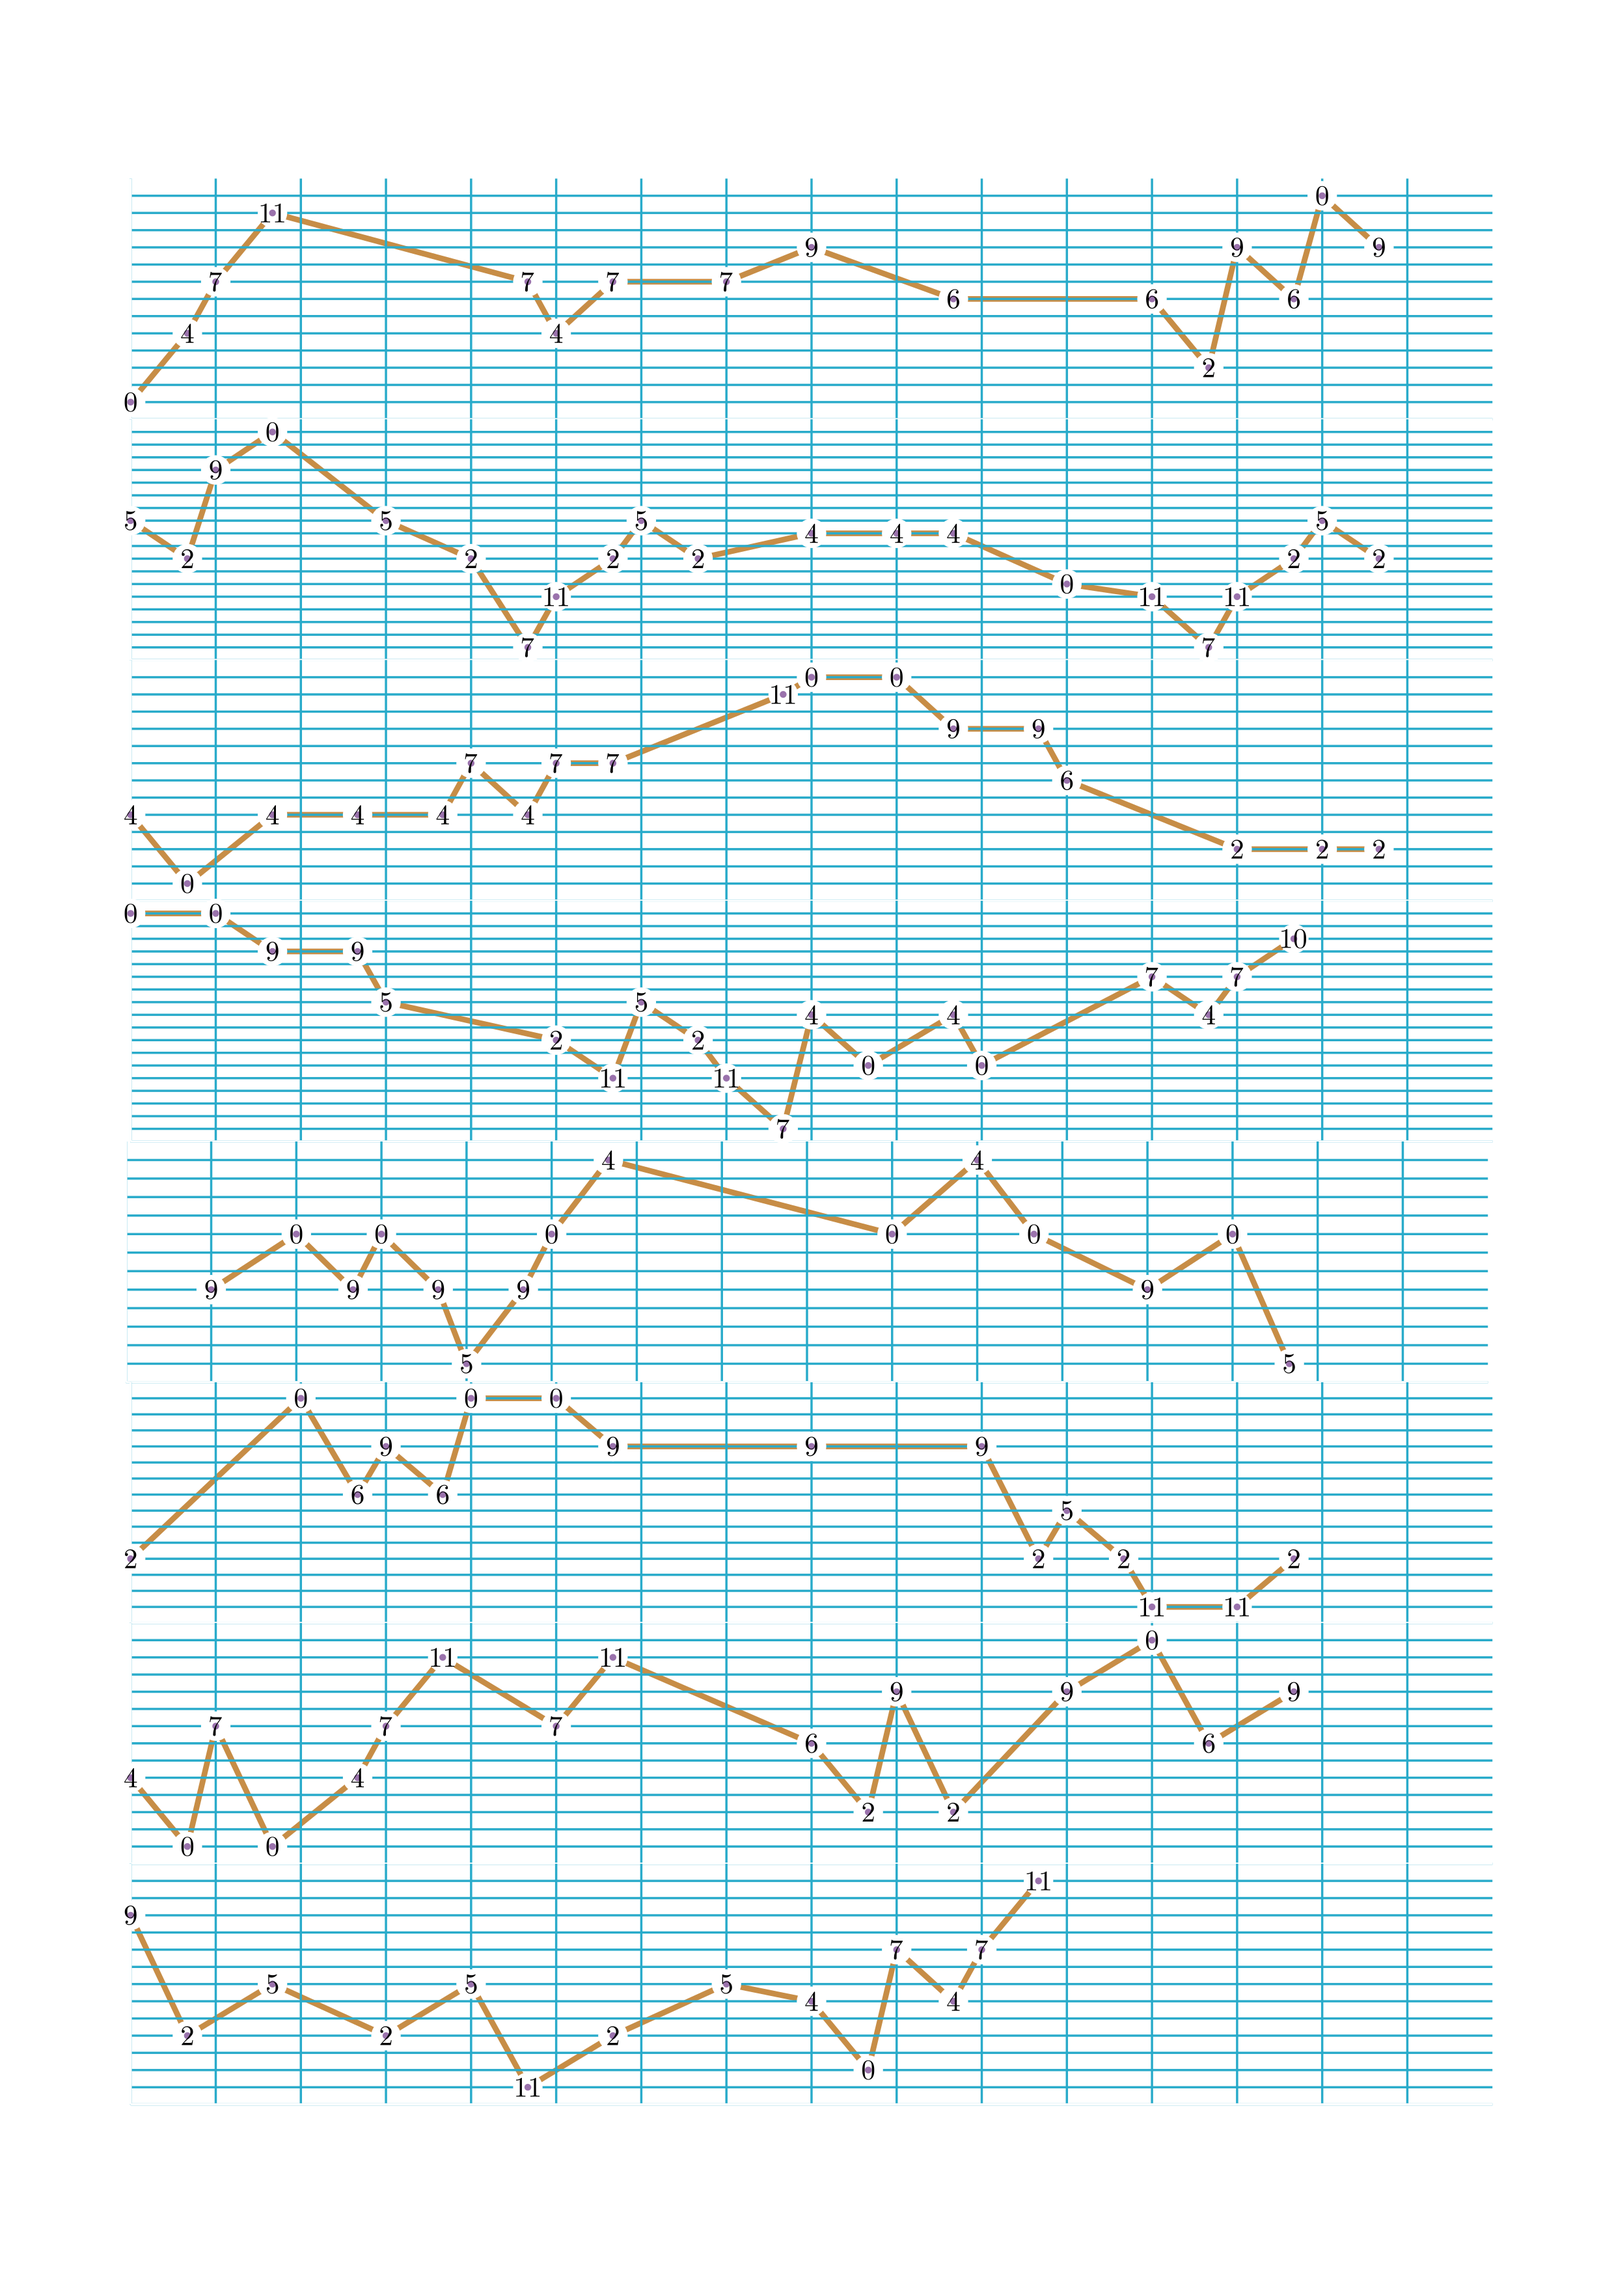
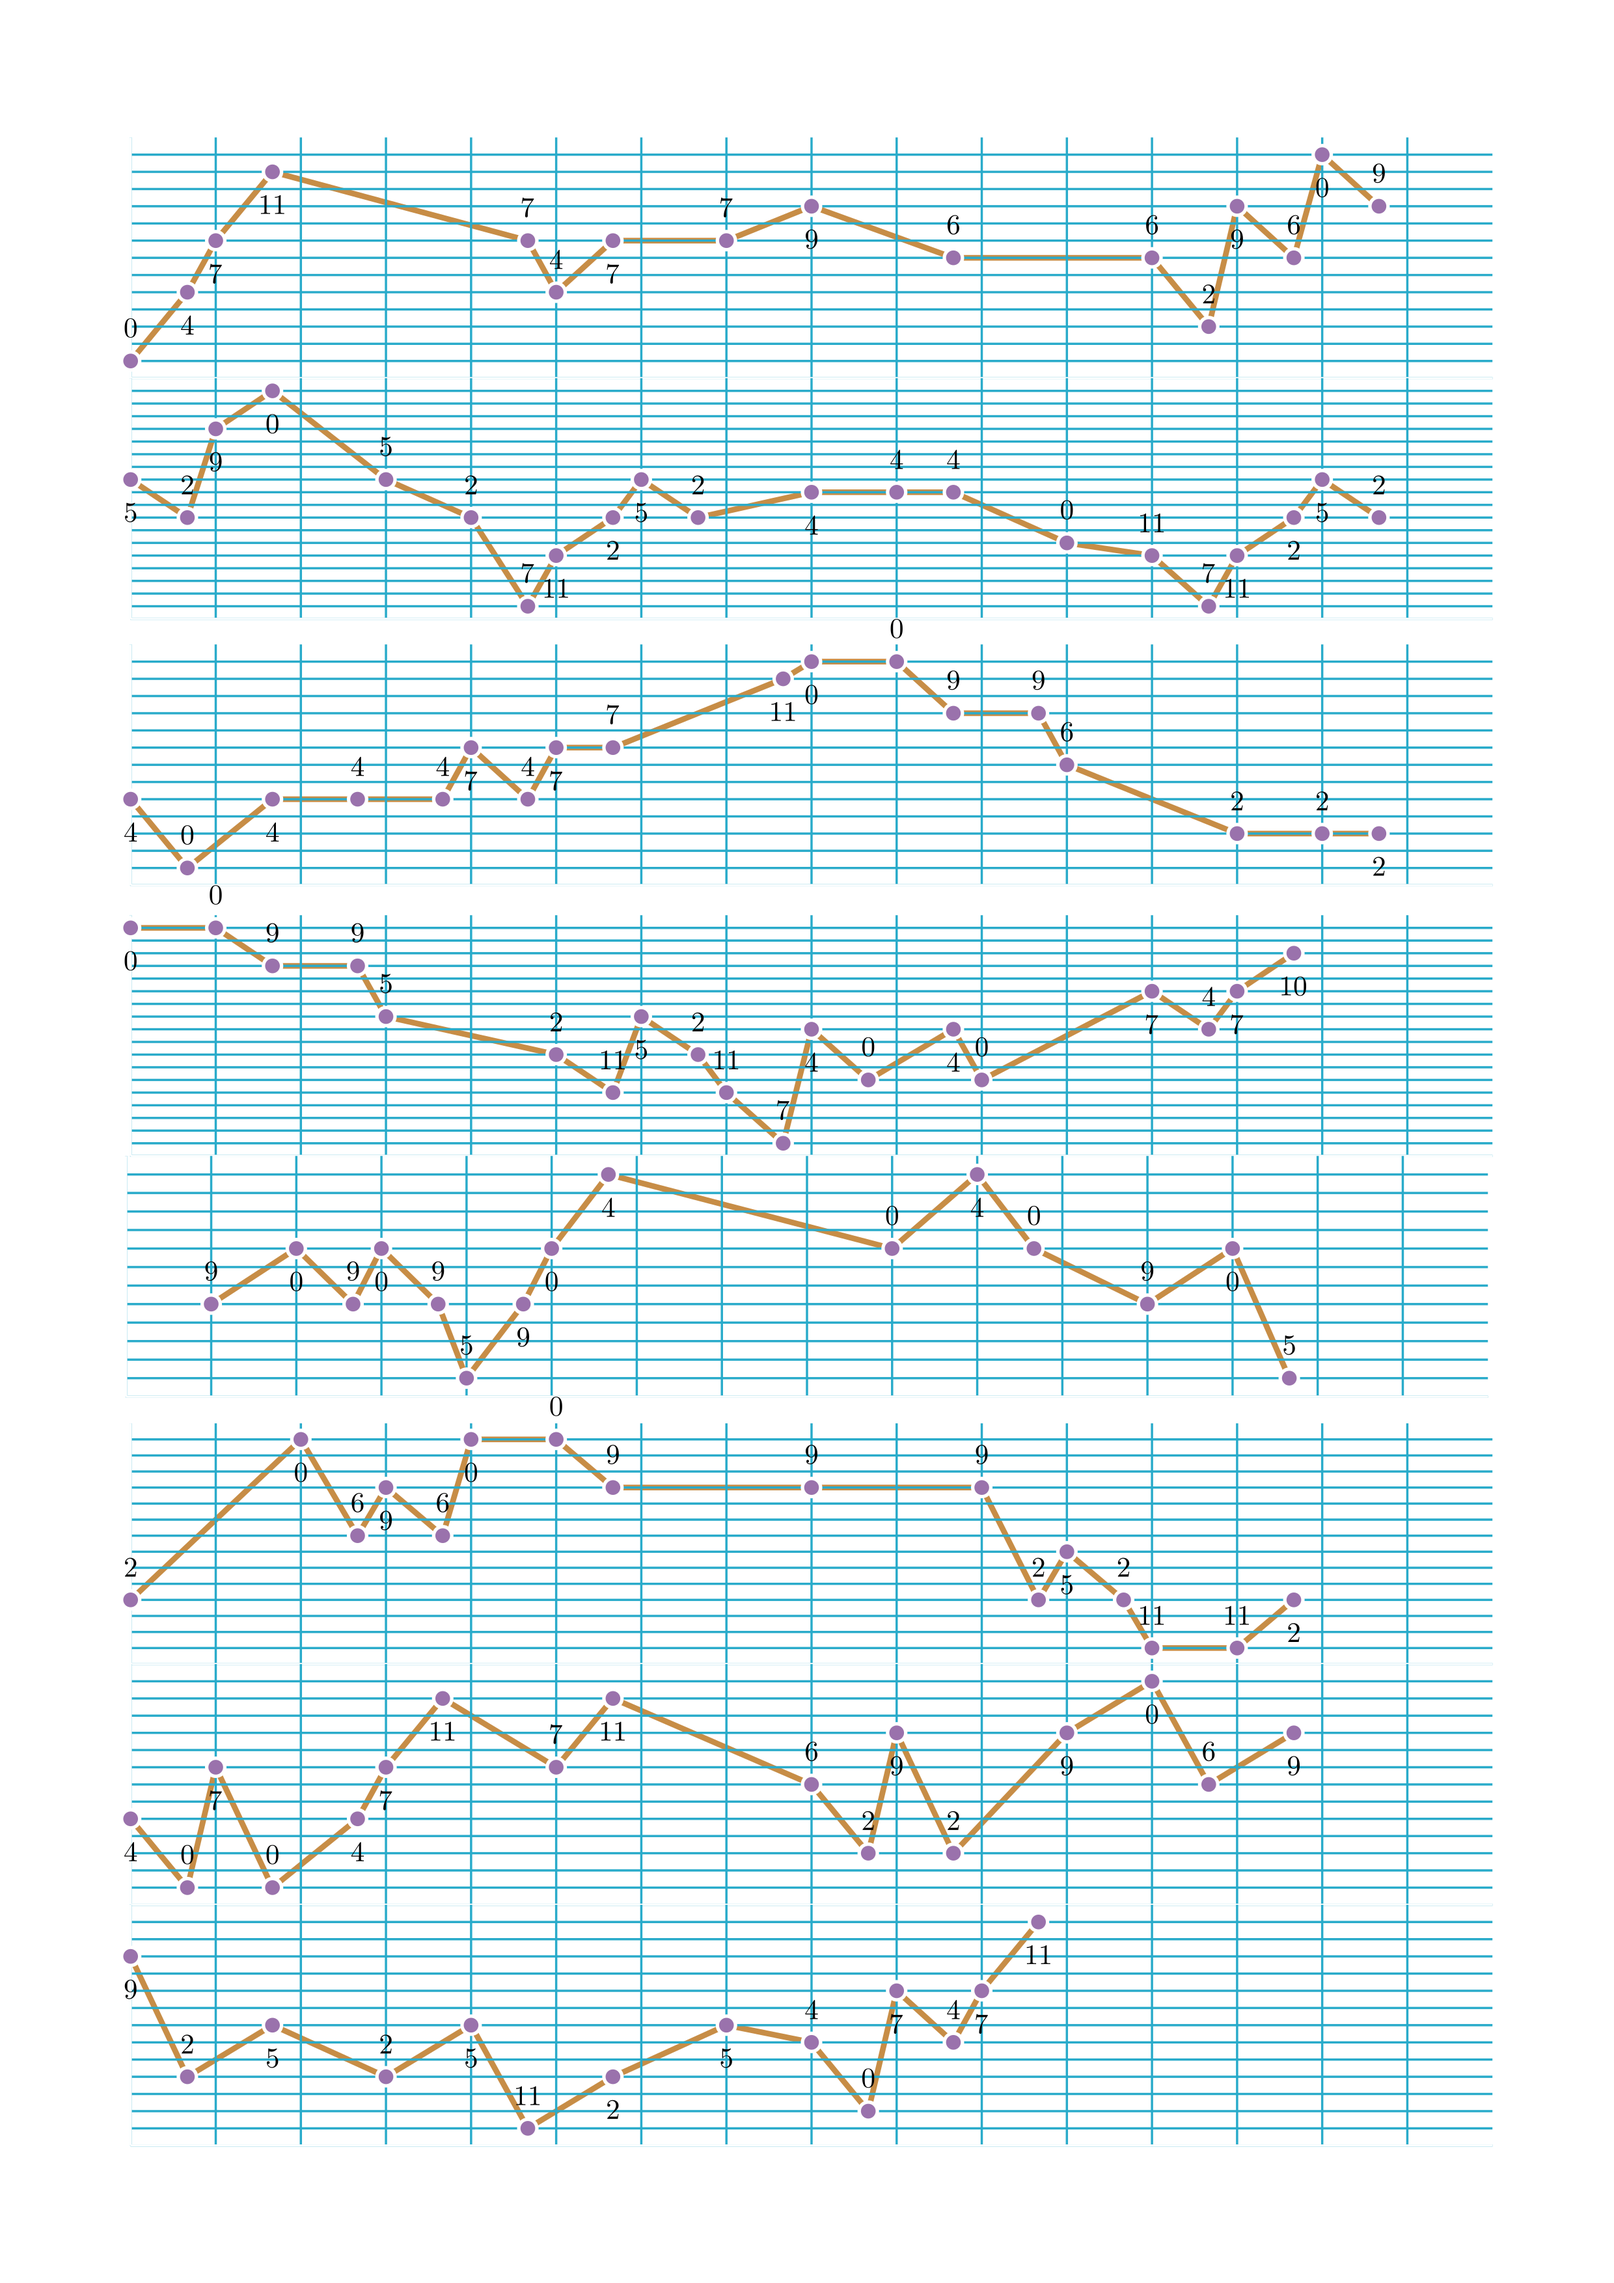
create melody sheet

Changed region(s): [[0.0621, 0.0621, 0.9315, 0.9322]]

diff --git a/line_graph.py b/line_graph.py
@@ -24,7 +24,7 @@ def create_line_graph(x_values, y_values, x_start, x_end, width, height ):
         x_values = x_values,
         y_values = y_values,
         line_color=GOLD_E,
-        vertex_dot_style=dict(stroke_width=10,  fill_color=PURPLE),
+        vertex_dot_style=dict(stroke_width=3,  fill_color=PURPLE),
         stroke_width = 5,
     )
     labels = VGroup()
@@ -72,8 +72,7 @@ def create_line_graph(x_values, y_values, x_start, x_end, width, height ):
         annotate_offset.append(0)
         label = Tex(str(y_values[i] % 12), color=BLACK).scale(.5)
         print(annotate_offset)
-        #labels.add(label.next_to(line_graph["vertex_dots"][i], np.array(annotate_offset)))
-        labels.add(label.move_to(line_graph["vertex_dots"][i]))
+        labels.add(label.next_to(line_graph["vertex_dots"][i], np.array(annotate_offset)))
 
 
     return VGroup(plane, line_graph, labels)
